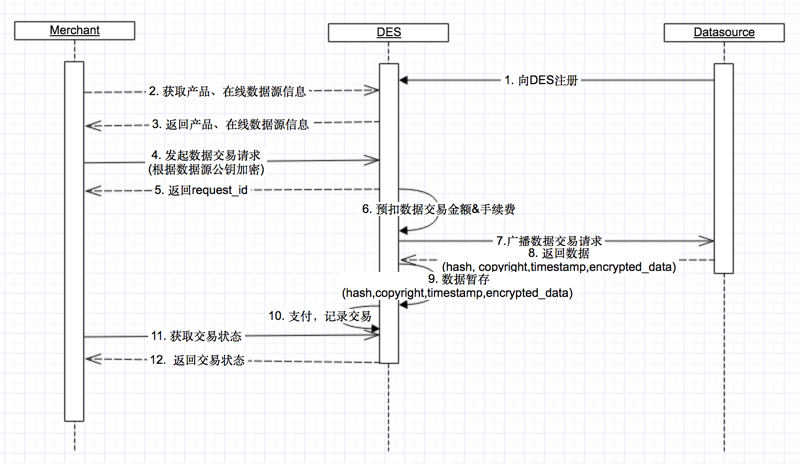
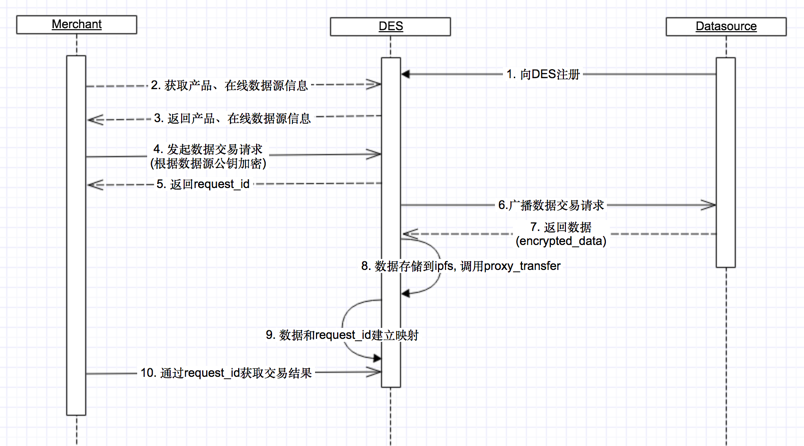
doc(des): update des architecture diagram

Changed region(s): [[0.0, 0.0291, 1.0, 1.0], [0.4062, 0.0291, 0.5625, 0.1457], [0.375, 0.3206, 0.4375, 0.3498]]

diff --git a/docs/des/architecture.md b/docs/des/architecture.md
@@ -2,9 +2,9 @@
 
 ## 2.1 架构图2-1
 
-![](./assets/import3.png)
+![](./assets/architecture.jpg)
 
-## 2.2 参与者说明
+## 2.3 参与者说明
 
 * Merchant: 商户，即数据买方;
 
@@ -12,7 +12,9 @@
 
 * Datasource: 数据源，即数据卖方;
 
-## 2.3 过程描述
+## 2.4 过程描述
+
+![](./assets/flow.png)
 
 下面描述一个数据交易的完整流程:
 

diff --git a/docs/zh/des/architecture.md b/docs/zh/des/architecture.md
@@ -2,9 +2,9 @@
 
 ## 2.1 架构图2-1
 
-![](./assets/import3.png)
+![](./assets/architecture.jpg)
 
-## 2.2 参与者说明
+## 2.3 参与者说明
 
 * Merchant: 商户，即数据买方;
 
@@ -12,7 +12,9 @@
 
 * Datasource: 数据源，即数据卖方;
 
-## 2.3 过程描述
+## 2.4 过程描述
+
+![](./assets/flow.png)
 
 下面描述一个数据交易的完整流程:
 
